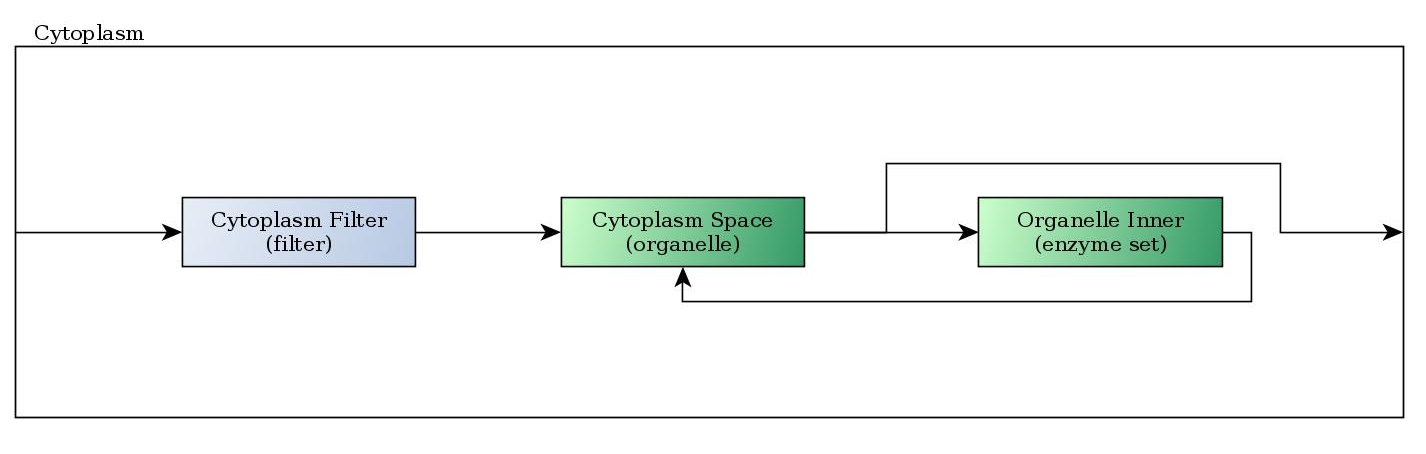
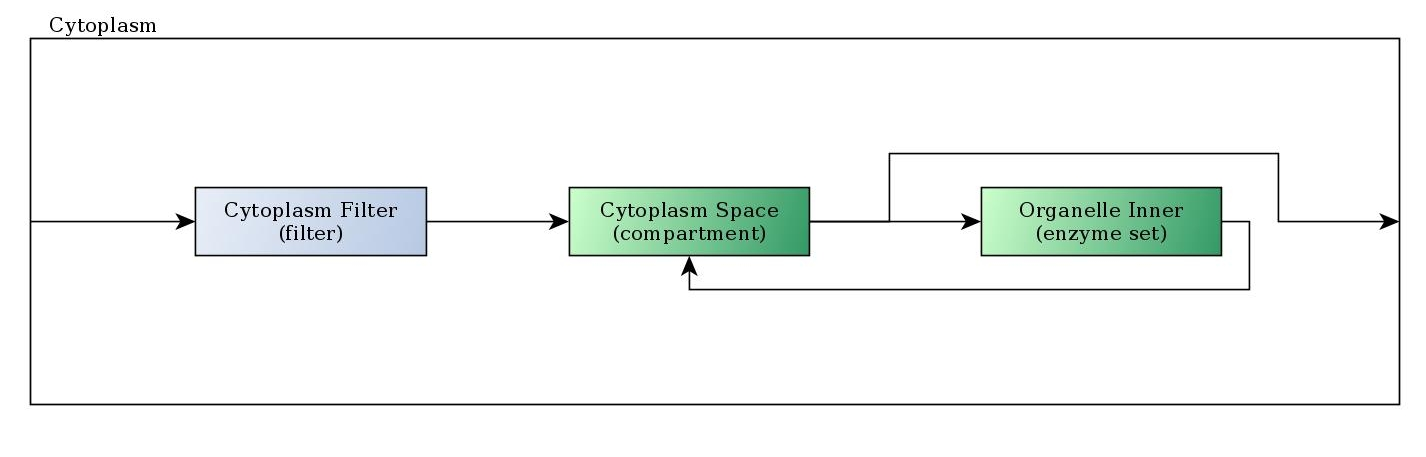
terminado filter hay que testearlo

Changed region(s): [[0.0, 0.0308, 0.9874, 0.9251]]

diff --git a/main-ammp.cpp b/main-ammp.cpp
@@ -1,13 +1,17 @@
 #include <iostream>
+#include <string>
 #include <map>
 #include <chrono>
 #include <algorithm>
 #include <utility>
 #include <vector>
+#include <cmath>
 #include <boost/simulation.hpp>
 #include "atomic-models/reaction.hpp"
 #include "atomic-models/controler.hpp"
 #include "data-structures/reaction_input.hpp"
+#include "data-structures/unit_definition.hpp"
+#include "data-structures/message.hpp"
 #include "atomic-models/filter.hpp"
 #include "tinyXML/tinyxml.h"
 
@@ -126,44 +130,70 @@ int main(int argc, char* argv[]){
 }
 */
 
-//esta es una prueba de como parsear el imput, me falta interpretar los mat. voy a crear una function que haga eso
 
 int main(int argc, char* argv[]) {
 
-    int count;
-    string elemName;
-    TiXmlDocument doc;
+  TiXmlDocument doc;
 
+  TiXmlElement * root, * model, * listOfReactions;
+  map<string, TiXmlElement *> model_lists;
 
-    TiXmlElement * root, * model, * list, * listOfReactions;
-    if (argc <= 1){
-        cout << "one argument must to be defined" << endl;
-        exit(1);
+  if (argc <= 1){
+      cout << "one argument must to be defined" << endl;
+      exit(1);
+  }
+
+  if ( !doc.LoadFile(argv[1]) ){
+      cout << "fail loading" << endl;
+      exit(1);
+  }
+
+  root  = doc.FirstChildElement();
+  model = root->FirstChildElement();
+
+  for(TiXmlElement * it = model->FirstChildElement(); it != NULL; it = it->NextSiblingElement()){
+    model_lists[it->Value()] = it;
+  }
+
+  /**************************************************************************************************************/
+  /********************************* creating unit definitions **************************************************/
+  /**************************************************************************************************************/
+
+  // declaring variables
+  string kind, factors_in_string;
+  double exponent, multiplier;
+  int scale;
+  list<Unit> list_of_units;
+  list<UnitDefinition> list_of_units_definitions;
+
+  for (TiXmlElement * current_unit_definition = model_lists["listOfUnitDefinitions"]->FirstChildElement(); current_unit_definition != NULL; current_unit_definition = current_unit_definition->NextSiblingElement()){
+    for(TiXmlElement * current_list_of_units = current_unit_definition->FirstChildElement(); current_list_of_units != NULL; current_list_of_units = current_list_of_units->NextSiblingElement()){
+
+      list_of_units.clear();
+      for(TiXmlElement * current_unit = current_list_of_units->FirstChildElement(); current_unit != NULL; current_unit = current_unit->NextSiblingElement()){
+        kind = current_unit->Attribute("kind");
+
+        if (current_unit->Attribute("multiplier") != NULL) multiplier = stod(current_unit->Attribute("multiplier"));
+        else multiplier = 1;
+
+        if (current_unit->Attribute("scale") != NULL) scale = stod(current_unit->Attribute("scale"));
+        else scale = 0;
+
+        if (current_unit->Attribute("exponent") != NULL) exponent = stod(current_unit->Attribute("exponent"));
+        else exponent = 1;
+
+        list_of_units.push_back(Unit(kind, exponent, scale, multiplier));
+      }
+
+      list_of_units_definitions.push_back(UnitDefinition(list_of_units, current_unit_definition->Attribute("id")));
     }
+  }
 
+  Adress newAdress("mitochondria", "cytoplasm", "cell membrane", "cytoplasm", "Fsix");
+  Message newMessage(newAdress, "ADP", 6);
 
-    if ( !doc.LoadFile(argv[1]) ){
-        cout << "fail loading" << endl;
-        exit(1);
-    }
+  cout << newAdress.at("organelle") << endl;
 
-    root = doc.FirstChildElement();
-    model = root->FirstChildElement();
-
-    for(list = model->FirstChildElement(); list != NULL; list = list->NextSiblingElement()){
-        elemName = list->Value();
-        if (elemName == "listOfReactions"){
-            listOfReactions = list;
-        }
-    }
-    list = listOfReactions->FirstChildElement();
-
-    count = 0;
-    for(list = listOfReactions->FirstChildElement(); list != NULL; list = list->NextSiblingElement()){
-        ++count;
-    }
-
-    cout << "Cantidad de reacciones: " << count << endl;
   return 0;
 }
 

diff --git a/atomic-models/filter.hpp b/atomic-models/filter.hpp
@@ -4,65 +4,50 @@
 #include <string>
 #include <utility>
 #include <map>
+#include "../data-structures/message.hpp"
 
 
 using namespace boost::simulation::pdevs;
 using namespace std;
-
-/*************************************
-*********type definations*************
-*************************************/
-
-/******** Basic types ************/
-typedef pair<string, double> molecule;
-
-/******** vector types ************/
-typedef vector<molecule> vectorOfMolecules;
-
-typedef pair<string, molecule> tp;
 
 template<class TIME, class MSG>
 class filter : public atomic<TIME, MSG>
 {
 private:
 
-  string      _aceptedInput;
-  vector<MSG> _filteredInput;
-  bool        _hasToSend;
+  string      _model_type;
+  string      _acepted_input;
+  vector<MSG> _filtered_input;
 
 public:
 
-  explicit filter(string other_aceptedInput) noexcept :
-  _aceptedInput(other_aceptedInput),
-  _hasToSend(false) {
-    _filteredInput.clear();
+  explicit filter(string other_model_type, string other_acepted_input) noexcept :
+  _model_type(other_model_type),
+  _acepted_input(other_acepted_input) {
+
+    _filtered_input.clear();
   }
 
   void internal() noexcept { 
-    _hasToSend = false;
-    _filteredInput.clear();
+    _filtered_input.clear();
   }
 
   TIME advance() const noexcept {
-    return _hasToSend?TIME(0):atomic<TIME, MSG>::infinity;
+    return (_filtered_input.size() > 0) ? TIME(0) : atomic<TIME, MSG>::infinity;
   }
 
   vector<MSG> out() const noexcept {
 
-    return _filteredInput; 
+    return _filtered_input; 
   }
 
   void external(const std::vector<MSG>& mb, const TIME& t) noexcept {
 
     for (typename vector<MSG>::const_iterator it = mb.cbegin(); it != mb.cend(); ++it){
       
-      tp input = boost::any_cast<tp>(*it); 
-      if ( input.first == _aceptedInput){
-        _filteredInput.push_back(boost::any(input.second));
-      }
+      Message msg = boost::any_cast<Message>(*it); 
+      if ( msg.to.at(_model_type) == _acepted_input) _filtered_input.push_back(*it);
     }
-
-    _hasToSend = (_filteredInput.size() > 0);
   }
 
   virtual void confluence(const std::vector<MSG>& mb, const TIME& t) noexcept {

diff --git a/data-structures/message.hpp b/data-structures/message.hpp
@@ -1,0 +1,71 @@
+#ifndef AMMP_PDEVS_MESSAGE_H
+#define AMMP_PDEVS_MESSAGE_H
+
+#include <iostream>
+#include <string>
+
+using namespace std;
+
+struct Adress {
+
+	string _organelle;
+	string _cytoplasm;
+	string _ensyme_set;
+	string _compartment;
+	string _enzyme;
+
+	Adress(string other_organelle, string other_cytoplasm, string other_ensyme_set, string other_compartment, string other_enzyme)
+	: _organelle(other_organelle), _cytoplasm(other_cytoplasm), _ensyme_set(other_ensyme_set), _compartment(other_compartment), _enzyme(other_enzyme) {}
+
+	string at(string model_type){
+		
+		string result = "";
+		if(model_type == "organelle") {
+			
+			result = _organelle;
+		} else if(model_type == "cytoplasm") {
+			
+			result = _cytoplasm;
+		} else if(model_type == "ensyme_set") {
+			
+			result = _ensyme_set;
+		} else if(model_type == "compartment") {
+			
+			result = _compartment;
+		} else if(model_type == "enzyme") {
+			
+			result = _enzyme;
+		}
+
+		return result;
+	}
+
+};
+
+ostream& operator<<(ostream& os, Adress to) {
+	os << "Organelle: " << to._organelle << endl;
+	os << "Cytoplasm: " << to._cytoplasm << endl;
+	os << "Ensyme_set: " << to._ensyme_set << endl;
+	os << "Compartment: " << to._compartment << endl;
+	os << "Enzyme: " << to._enzyme << endl;
+	return os;
+}
+
+struct Message {
+	
+	Adress to;
+	string specie;
+	double amount;
+
+	Message(Adress other_to, string other_specie, double other_amount)
+	: to(other_to), specie(other_specie), amount(other_amount) {}
+};
+
+ostream& operator<<(ostream& os, Message msg) {
+	os << "To: " << endl << msg.to << endl;
+	os << "Specie: " << msg.specie << endl;
+	os << "Amount: " << msg.amount << endl;
+	return os;
+}
+
+#endif // AMMP_PDEVS_MESSAGE_H

diff --git a/data-structures/unit_definition.hpp b/data-structures/unit_definition.hpp
@@ -1,0 +1,54 @@
+#ifndef AMMP_PDEVS_UNIT_DEFINITION_H
+#define AMMP_PDEVS_UNIT_DEFINITION_H
+#include <list>
+#include <cmath>
+#include <iostream>
+#include <string>
+
+using namespace std;
+
+struct Unit {
+  // unit type
+  string  kind;
+  // unit dimention
+  int     scale;
+  // conversion factors
+  double  exponent;
+  double  multiplier;
+
+  Unit(string other_kind, double other_exponent, int other_scale, double other_multiplier)
+  : kind(other_kind), exponent(other_exponent), scale(other_scale), multiplier(other_multiplier) {}
+
+  double convertFrom(double amount) {
+
+    return amount * pow(multiplier * pow(10, scale), exponent);
+  }
+
+  double convertTo(double amount) {
+
+    return amount / pow(multiplier * pow(10, scale), exponent);
+  }
+
+};
+
+class UnitDefinition {
+  
+public:
+
+  // constructors
+  UnitDefinition();
+  UnitDefinition(list<Unit>, string);
+
+  //methods
+  double convertTo(double amount) const;
+  double convertFrom(double amount) const;
+  string unitName() const;
+
+private:
+  string name;
+  list<Unit> list_of_units;
+  double general_multiplier;
+  double general_scale_exponent;
+};
+
+#endif // AMMP_PDEVS_UNIT_DEFINITION_H

diff --git a/data-structures/unit_definition.cpp b/data-structures/unit_definition.cpp
@@ -1,0 +1,35 @@
+#include "unit_definition.hpp"
+#include <list>
+#include <cmath>
+#include <iostream>
+#include <string>
+
+using namespace std;
+
+UnitDefinition::UnitDefinition(list<Unit> other_list_of_units, string other_name) 
+: list_of_units(other_list_of_units), name(other_name) {
+
+  general_multiplier      = 1;
+  general_scale_exponent  = 0;
+
+  for (list<Unit>::iterator it = list_of_units.begin(); it != list_of_units.end(); ++it){
+
+    general_multiplier *= pow(it->multiplier, it->exponent);
+    general_scale_exponent += it->scale * it->exponent;
+  }
+}
+
+double UnitDefinition::convertFrom(double amount) const {
+
+  return amount * (general_multiplier * pow(10, general_scale_exponent));
+}
+
+double UnitDefinition::convertTo(double amount) const {
+
+  return amount / (general_multiplier * pow(10, general_scale_exponent));
+}
+
+string UnitDefinition::unitName() const {
+
+  return name;
+}
